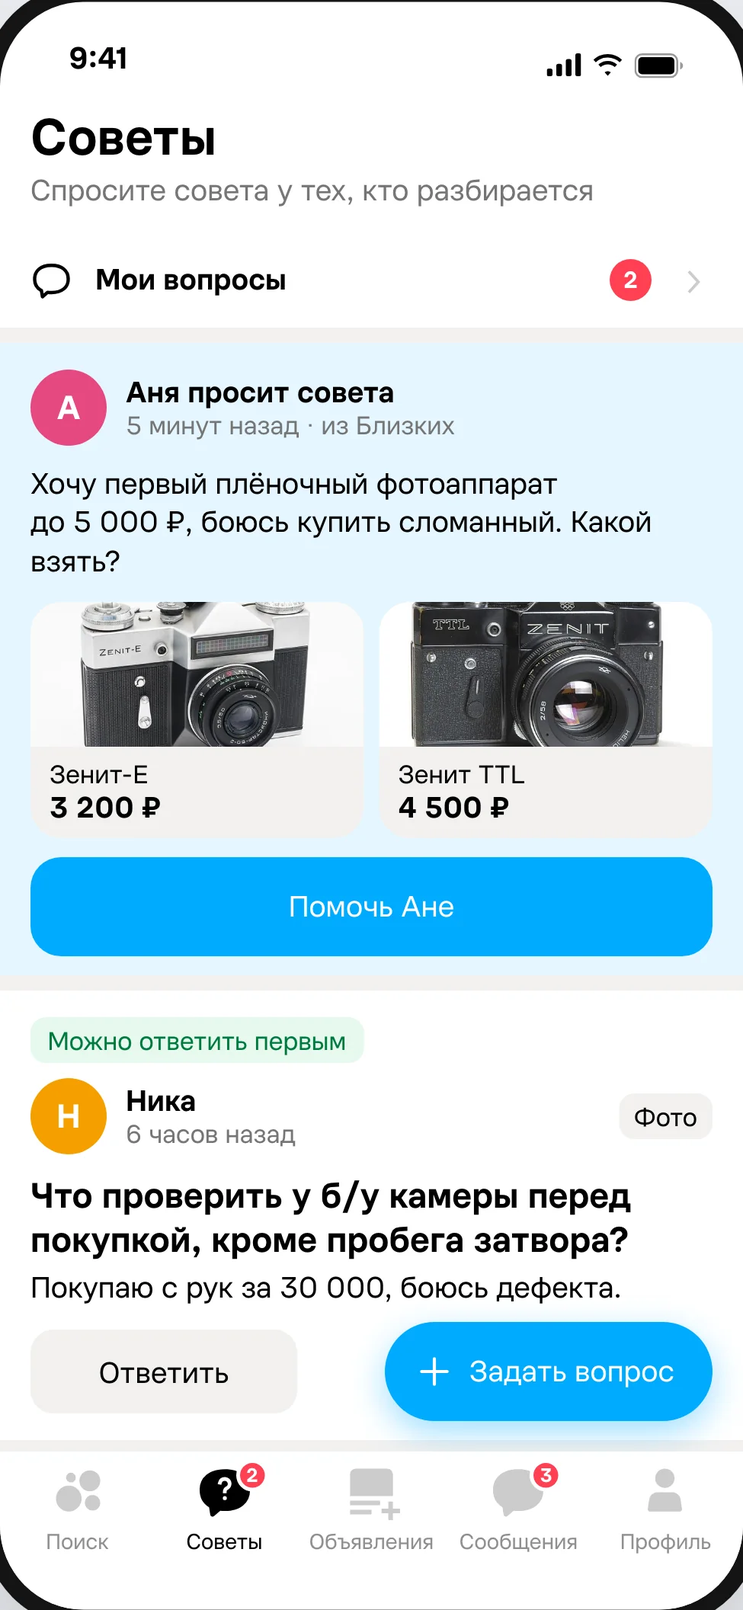
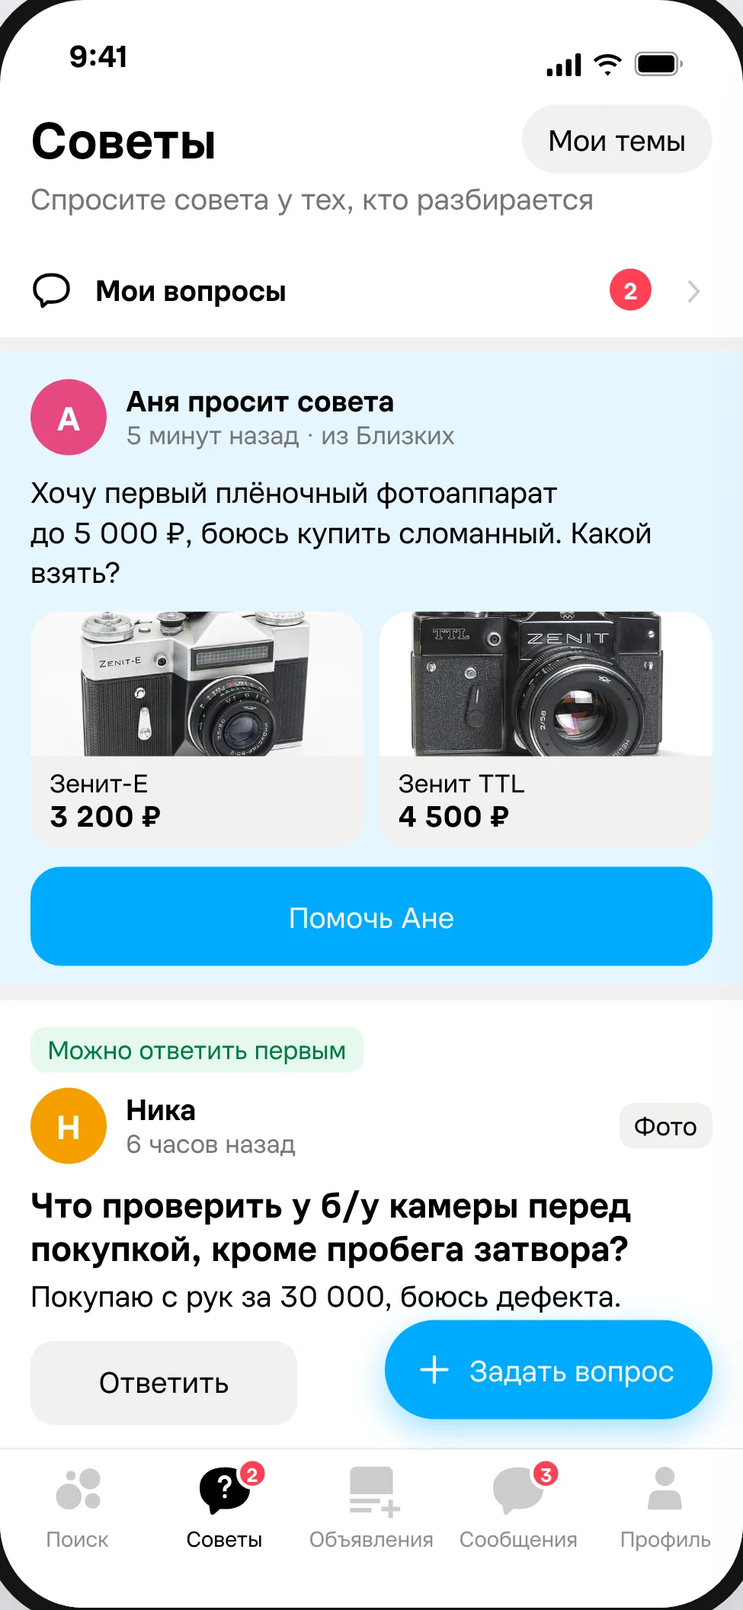
feat: макеты: темы как сообщества Reddit, «Полезно» под ответами, экран «после покупки»

diff --git a/maket/index.html b/maket/index.html
@@ -78,7 +78,7 @@ footer{padding:28px 0 44px;font-size:13px;color:var(--muted)}
 <header class="top">
   <div class="k">Changellenge Cup Moscow 2026 · ООО «Коммерсы»</div>
   <h1>Авито Сигнал: макеты</h1>
-  <p class="lead">По видео Сони и созвону команды 30.10: копия интерфейса Авито (их шрифт, иконки, цвета и кнопки), лента цепляет, как Instagram и X, и понятна даже 60-летнему. Итоговый вариант: 7 досок, 20 экранов, главный сценарий - «зимние кроссовки до 5 000». Экраны листаются вбок, нажмите на экран, чтобы рассмотреть.</p>
+  <p class="lead">По видео Сони и созвону команды 30.10: копия интерфейса Авито (их шрифт, иконки, цвета и кнопки), лента цепляет, как Instagram и X, темы устроены как сообщества Reddit, и всё понятно даже 60-летнему. Итоговый вариант: 7 досок, 22 экрана, главный сценарий - «зимние кроссовки до 5 000». Экраны листаются вбок, нажмите на экран, чтобы рассмотреть.</p>
   <nav class="toc"><a class="hi" href="#decide">Решения</a><a href="#pains">Боль → решение</a><a href="#s01">01 Лента</a><a href="#s02">02 Где живёт</a><a href="#s03">03 Спросить</a><a href="#s04">04 Ответить</a><a href="#s05">05 Близкие</a><a href="#s06">06 Карточка</a><a href="#s07">07 Знатоки</a><a href="#alt">Варианты</a><a href="#more">Чек-лист</a></nav>
 </header>
 
@@ -86,22 +86,22 @@ footer{padding:28px 0 44px;font-size:13px;color:var(--muted)}
   <div class="k">4 решения</div>
   <h2>Что выбрали и почему</h2>
   <p class="bp">Итоговый вариант по всем пунктам из видео. Все 10 видов ленты и другие места для Сигнала - в конце страницы, если захочется сравнить.</p>
-  <div class="dgrid"><a class="dc" href="#s01"><div class="h"><span class="num">01</span><b>Лента советов</b></div><p class="dec">Посты как в Instagram и X, собранные из деталей Авито: автор, вопрос, лучший ответ знатока, фото вещи с названием и ценой, счётчики «14 ответов», «Полезно 23», «Близким». Сверху «Мои вопросы», кнопка «Задать вопрос» всегда в углу</p><p class="why">Лента должна цеплять, как соцсети, и быть понятной 60-летнему. Польза видна без клика, обсуждение ведёт к объявлению (23:30)</p><span class="go">К экранам →</span></a><a class="dc" href="#s02"><div class="h"><span class="num">02</span><b>Где живут Советы</b></div><p class="dec">Вкладка «Советы» на месте Избранного. Избранное: кнопка «Избранное» рядом с поиском и карточка в Профиле</p><p class="why">Слово «Советы» само объясняет, что внутри. Объявления и Сообщения на своих местах (11:41), Избранное в одно касание</p><span class="go">К экранам →</span></a><a class="dc" href="#s05"><div class="h"><span class="num">05</span><b>Близкие</b></div><p class="dec">Переписка в Сообщениях, близкие закреплены сверху. В Советах карточка «Аня просит совета» с кнопкой «Помочь Ане». Присланное оцениваем кнопками «Нравится» и «Не то»</p><p class="why">Одно место для чатов (14:47-15:20). Кнопку со словом поймёт любой, кружок и свайп - не каждый</p><span class="go">К экранам →</span></a><a class="dc" href="#s06"><div class="h"><span class="num">06</span><b>Опыт владельцев</b></div><p class="dec">До 10 отзывов о модели одна цитата, от 10 короткая сводка Ави: плюсы и минусы обычными словами</p><p class="why">Сводка по 2-3 отзывам ненадёжна. Яндекс тоже включает ИИ-сводку от 10 отзывов</p><span class="go">К экранам →</span></a></div>
+  <div class="dgrid"><a class="dc" href="#s01"><div class="h"><span class="num">01</span><b>Лента советов</b></div><p class="dec">Посты как в Instagram и X, собранные из деталей Авито: автор, вопрос, лучший ответ знатока, фото вещи с названием и ценой, счётчики «14 ответов», «Полезно 23», «Близким». Сверху «Мои вопросы» и «Мои темы»: темы как сообщества в Reddit, с кнопкой «Подписаться». Кнопка «Задать вопрос» всегда в углу</p><p class="why">Лента должна цеплять, как соцсети, и быть понятной 60-летнему. Польза видна без клика, обсуждение ведёт к объявлению (23:30)</p><span class="go">К экранам →</span></a><a class="dc" href="#s02"><div class="h"><span class="num">02</span><b>Где живут Советы</b></div><p class="dec">Вкладка «Советы» на месте Избранного. Избранное: кнопка «Избранное» рядом с поиском и карточка в Профиле</p><p class="why">Слово «Советы» само объясняет, что внутри. Объявления и Сообщения на своих местах (11:41), Избранное в одно касание</p><span class="go">К экранам →</span></a><a class="dc" href="#s05"><div class="h"><span class="num">05</span><b>Близкие</b></div><p class="dec">Переписка в Сообщениях, близкие закреплены сверху. В Советах карточка «Аня просит совета» с кнопкой «Помочь Ане». Присланное оцениваем кнопками «Нравится» и «Не то»</p><p class="why">Одно место для чатов (14:47-15:20). Кнопку со словом поймёт любой, кружок и свайп - не каждый</p><span class="go">К экранам →</span></a><a class="dc" href="#s06"><div class="h"><span class="num">06</span><b>Опыт владельцев</b></div><p class="dec">До 10 отзывов о модели одна цитата, от 10 короткая сводка Ави: плюсы и минусы обычными словами. После покупки владельцы помогают разобраться с вещью (экран 4)</p><p class="why">Сводка по 2-3 отзывам ненадёжна, Яндекс тоже включает ИИ-сводку от 10 отзывов. Помощь после покупки - раздел 5 в тексте Сони и гипотезы 1-2 в дереве Дианы: повод вернуться в Авито между сделками</p><span class="go">К экранам →</span></a></div>
 </section>
 
 <section id="pains">
   <div class="k">Боль → решение</div>
   <h2>Как переписка решает проблему</h2>
   <p class="bp">На каждом экране человек пишет, что его беспокоит, и видно, чем всё закончилось.</p>
-  <ul class="cl"><li><span class="t">Марина, 01 и 04</span>Дважды падала у метро, бюджет 5 000, не знает модель и размер<span class="ok">Знаток обуви Илья советует Asics Lahar GTX и даёт объявление за 4 700, отвечает про размер. Марина: «Заказала, спасибо!»</span></li><li><span class="t">Алексей, 03</span>В старой куртке продувает, автобус ждёт по 20 минут<span class="ok">Знаток одежды Света прислала пуховик его размера за 6 500. Алексей нажал «Помогло»: «Заказал с Авито Доставкой, приедет в пятницу»</span></li><li><span class="t">Аня, 01 и 05</span>Хочет первый плёночный фотоаппарат до 5 000 и боится купить сломанный<span class="ok">Мама одобрила Зенит, Алексей посоветовал попросить видео затвора. Продавец прислал видео, Аня: «Беру! Видео пришло»</span></li><li><span class="t">Папа, 05</span>Выбирает машину до 1,1 млн и боится, что она сгниёт<span class="ok">Алексей прислал вопрос «Vesta или Solaris» с 18 ответами владельцев. Папа: «У Весты ржавеют пороги, беру Solaris»</span></li><li><span class="t">Покупатель 1906R, 06</span>Боится реплики за 12 900 и не знает, подойдёт ли размер<span class="ok">Лучший ответ прямо в карточке: сверить артикул на бирке с сайтом New Balance. Владельцы: «садятся размер в размер». Если вопрос уже задавали, Авито сразу показывает готовые ответы</span></li><li><span class="t">Ника и Тимур, 01 и 07</span>Боятся купить б/у камеру с дефектом и потратиться на дорогой объектив<span class="ok">Вопросы уходят знатокам фото с пометкой «Можно ответить первым». Знаток видит, что совет работает: «Нашёл битый пиксель и не купил, сэкономили 30 000»</span></li></ul>
+  <ul class="cl"><li><span class="t">Марина, 01 и 04</span>Дважды падала у метро, бюджет 5 000, не знает модель и размер<span class="ok">Знаток обуви Илья советует Asics Lahar GTX и даёт объявление за 4 700, отвечает про размер. Марина: «Заказала, спасибо!»</span></li><li><span class="t">Алексей, 03</span>В старой куртке продувает, автобус ждёт по 20 минут<span class="ok">Знаток одежды Света прислала пуховик его размера за 6 500. Алексей нажал «Помогло»: «Заказал с Авито Доставкой, приедет в пятницу»</span></li><li><span class="t">Аня, 01 и 05</span>Хочет первый плёночный фотоаппарат до 5 000 и боится купить сломанный<span class="ok">Мама одобрила Зенит, Алексей посоветовал попросить видео затвора. Продавец прислал видео, Аня: «Беру! Видео пришло»</span></li><li><span class="t">Папа, 05</span>Выбирает машину до 1,1 млн и боится, что она сгниёт<span class="ok">Алексей прислал вопрос «Vesta или Solaris» с 18 ответами владельцев. Папа: «У Весты ржавеют пороги, беру Solaris»</span></li><li><span class="t">Покупатель 1906R, 06</span>Боится реплики за 12 900 и не знает, подойдёт ли размер<span class="ok">Лучший ответ прямо в карточке: сверить артикул на бирке с сайтом New Balance. Владельцы: «садятся размер в размер». Если вопрос уже задавали, Авито сразу показывает готовые ответы</span></li><li><span class="t">Аня, 06</span>Купила Зенит-Е и боится засветить плёнку<span class="ok">Знаток фото Виктор объяснил по шагам и прикрепил плёнку Kodak за 690. Аня: «Получилось! Заказала ещё две плёнки»</span></li><li><span class="t">Ника и Тимур, 01 и 07</span>Боятся купить б/у камеру с дефектом и потратиться на дорогой объектив<span class="ok">Вопросы уходят знатокам фото с пометкой «Можно ответить первым». Знаток видит, что совет работает: «Нашёл битый пиксель и не купил, сэкономили 30 000»</span></li></ul>
 </section>
 
-<section id="s01"><div class="k">01 · Решение · лента советов</div><h2>Советы: цепляет, как Instagram и X, выглядит как Авито</h2><p class="bp">Интерфейс собран из настоящего Авито: шрифт Avito Sans, иконки и цвета дизайн-системы. Лента устроена как в соцсетях: каждый вопрос - пост с автором, лучшим ответом знатока и крупным фото вещи из ответа, внизу счётчики со словами «14 ответов», «Полезно 23», «Близким». В каждом посте видно, что беспокоит человека и чем всё закончилось. Кнопка «Задать вопрос» всегда в углу экрана. Варианты ленты, которые рассматривали, в конце страницы.</p><div class="rail"><figure class="card"><img src="img/01_feed_01.webp" width="975" height="2113" loading="eager" alt="Открыли Советы"><figcaption><span class="n">1</span><b>Открыли Советы</b><p>Вопрос выглядит как пост в соцсети: автор, боль («дважды падала у метро»), лучший ответ знатока и фото вещи с названием и ценой, как в выдаче Авито. Под ответом итог: «Заказала, спасибо!». Внизу счётчики со словами, кнопка «Задать вопрос» всегда в углу экрана.</p></figcaption></figure><figure class="card"><img src="img/01_feed_02.webp" width="975" height="2113" loading="eager" alt="Когда нужна ваша помощь"><figcaption><span class="n">2</span><b>Когда нужна ваша помощь</b><p>Аня боится купить сломанный фотоаппарат и присылает два варианта с фото, как опрос в соцсети. Помочь можно одной кнопкой «Помочь Ане». Ниже вопрос вашей темы без ответа с пометкой «Можно ответить первым»: Ника боится камеры с дефектом.</p></figcaption></figure></div><div class="cnt"></div></section>
+<section id="s01"><div class="k">01 · Решение · лента советов</div><h2>Советы: цепляет, как Instagram и X, выглядит как Авито</h2><p class="bp">Интерфейс собран из настоящего Авито: шрифт Avito Sans, иконки и цвета дизайн-системы. Лента устроена как в соцсетях: каждый вопрос - пост с автором, лучшим ответом знатока и крупным фото вещи из ответа, внизу счётчики со словами «14 ответов», «Полезно 23», «Близким». В каждом посте видно, что беспокоит человека и чем всё закончилось. Кнопка «Задать вопрос» всегда в углу экрана. Темы устроены как сообщества в Reddit: подписка одной кнопкой «Подписаться», и вопросы этих тем попадают в ленту. Варианты ленты, которые рассматривали, в конце страницы.</p><div class="rail"><figure class="card"><img src="img/01_feed_01.webp" width="975" height="2113" loading="eager" alt="Открыли Советы"><figcaption><span class="n">1</span><b>Открыли Советы</b><p>Вопрос выглядит как пост в соцсети: автор, боль («дважды падала у метро»), лучший ответ знатока и фото вещи с названием и ценой, как в выдаче Авито. Под ответом итог: «Заказала, спасибо!». Внизу счётчики со словами, кнопка «Задать вопрос» всегда в углу экрана, вверху кнопка «Мои темы».</p></figcaption></figure><figure class="card"><img src="img/01_feed_02.webp" width="975" height="2113" loading="eager" alt="Когда нужна ваша помощь"><figcaption><span class="n">2</span><b>Когда нужна ваша помощь</b><p>Аня боится купить сломанный фотоаппарат и присылает два варианта с фото, как опрос в соцсети. Помочь можно одной кнопкой «Помочь Ане». Ниже вопрос вашей темы без ответа с пометкой «Можно ответить первым»: Ника боится камеры с дефектом.</p></figcaption></figure><figure class="card"><img src="img/01_feed_03.webp" width="975" height="2113" loading="lazy" alt="Мои темы"><figcaption><span class="n">3</span><b>Мои темы</b><p>Темы работают как сообщества в Reddit: подписываетесь кнопкой «Подписаться», и вопросы темы появляются в ленте. Видно, где вы знаток или советчик. Экран открывается кнопкой «Мои темы» вверху ленты.</p></figcaption></figure></div><div class="cnt"></div></section>
 <section id="s02"><div class="k">02 · Решение · нижняя панель</div><h2>Где живут Советы</h2><p class="bp">Пять вкладок, как в Авито сейчас: «Советы» встают на место Избранного, Объявления и Сообщения остаются на своих местах. Избранное не теряется: кнопка «Избранное» рядом с поиском и карточка в Профиле с пометкой «Теперь здесь». Главная, плитки категорий и профиль - как в Авито.</p><div class="rail"><figure class="card"><img src="img/02_nav_01.webp" width="975" height="2113" loading="lazy" alt="Советы вместо Избранного"><figcaption><span class="n">1</span><b>Советы вместо Избранного</b><p>Главная Авито как есть, добавлена только кнопка «Избранное» рядом с поиском. В нижней панели пять вкладок: Поиск, Советы, Объявления, Сообщения, Профиль.</p></figcaption></figure><figure class="card"><img src="img/02_nav_02.webp" width="975" height="2113" loading="lazy" alt="Избранное в Профиле"><figcaption><span class="n">2</span><b>Избранное в Профиле</b><p>Профиль Авито как есть, добавлены только две карточки в том же стиле: «Избранное» с пометкой «Теперь здесь» и «Знаток» с главным итогом: помогли выбрать 20 людям. 300 бонусов в Финансах начислены за покупки по вашим советам.</p></figcaption></figure></div><div class="cnt"></div></section>
 <section id="s03"><div class="k">03 · Решение · задать вопрос</div><h2>Задать вопрос на одном экране</h2><p class="bp">Одно поле, как письмо другу, и кнопка «Сказать голосом». Категорию, бюджет и размер понимает Ави, помощник Авито, и показывает одной строкой. Кому показать вопрос - два варианта словами. После отправки сразу понятно, что вопрос ушёл и что будет дальше. Пример - ваш собственный вопрос: пуховик, в котором не мёрзнешь на остановке.</p><div class="rail"><figure class="card"><img src="img/03_create_01.webp" width="975" height="2113" loading="lazy" alt="Текстом или голосом"><figcaption><span class="n">1</span><b>Текстом или голосом</b><p>Пишете как в мессенджере или говорите голосом. Ави сам понимает категорию, бюджет и размер. Кому показать - два понятных варианта, выбираются до отправки.</p></figcaption></figure><figure class="card"><img src="img/03_create_02.webp" width="975" height="2113" loading="lazy" alt="Сразу после отправки"><figcaption><span class="n">2</span><b>Сразу после отправки</b><p>Зелёная плашка «Вопрос отправлен» и что будет дальше. Ниже объявления, которые подобрал Ави, и похожие вопросы. Экран не пустой, понятно, что делать, пока ждёте ответ.</p></figcaption></figure><figure class="card"><img src="img/03_create_03.webp" width="975" height="2113" loading="lazy" alt="Когда пришли ответы"><figcaption><span class="n">3</span><b>Когда пришли ответы</b><p>Проблема решилась прямо здесь: знаток одежды Света прислала пуховик вашего размера, вы нажали «Помогло» и пишете «Заказал с Авито Доставкой». У каждого ответа одинаковые кнопки «Помогло» и «Ответить».</p></figcaption></figure></div><div class="cnt"></div></section>
-<section id="s04"><div class="k">04 · Решение · ответить на вопрос</div><h2>Вопрос и ответ</h2><p class="bp">Ответы выглядят как обычные комментарии: сверху тот, что помог автору, под ним ответы на него. У каждого действия есть подпись: «Отправить близким», «Написать ответ», «Добавить объявление». Объявление к ответу прикрепляется кнопкой со словами, а не значком «+». Пример - вопрос Марины через 10 минут после публикации, пока она ещё выбирает: вы советуете из своего опыта.</p><div class="rail"><figure class="card"><img src="img/04_thread_01.webp" width="975" height="2113" loading="lazy" alt="Вопрос и ответы"><figcaption><span class="n">1</span><b>Вопрос и ответы</b><p>Марина боится снова упасть. Илья советует модель с объявлением, а сомнение про размер закрывает прямо в ветке: «Свой, с тёплым носком как раз». Его ответ сверху с пометкой «помогло автору». Остальные 12 ответов открываются кнопкой, свой можно добавить кнопкой «Написать ответ».</p></figcaption></figure><figure class="card"><img src="img/04_thread_02.webp" width="975" height="2113" loading="lazy" alt="«Добавить объявление»"><figcaption><span class="n">2</span><b>«Добавить объявление»</b><p>Нажали «Добавить объявление». Вместо значка «+» кнопка со словами и три понятных способа: подобрать по вопросу, взять из Избранного или сфотографировать свои кроссовки. Шторка закрывается кнопкой «Закрыть».</p></figcaption></figure><figure class="card"><img src="img/04_thread_03.webp" width="975" height="2113" loading="lazy" alt="Подобрать по вопросу"><figcaption><span class="n">3</span><b>Подобрать по вопросу</b><p>Объявления уже отобраны по вопросу Марины. Под каждым кнопка «Выбрать», выбранное отмечено галочкой, а то, что уже посоветовал Илья, помечено «Уже у Ильи». Так ответ сразу ведёт к покупке.</p></figcaption></figure><figure class="card"><img src="img/04_thread_04.webp" width="975" height="2113" loading="lazy" alt="Ответ с вещью"><figcaption><span class="n">4</span><b>Ответ с вещью</b><p>Текст и прикреплённое объявление уходят одним ответом. Если прикрепить своё объявление, ответ получит пометку «Реклама».</p></figcaption></figure></div><div class="cnt"></div></section>
+<section id="s04"><div class="k">04 · Решение · ответить на вопрос</div><h2>Вопрос и ответ</h2><p class="bp">Ответы выглядят как обычные комментарии: сверху тот, что помог автору, под ним ответы на него. Читатели отмечают ответы кнопкой «Полезно», как голосами в Reddit, и полезные поднимаются выше. У каждого действия есть подпись: «Отправить близким», «Написать ответ», «Добавить объявление». Объявление к ответу прикрепляется кнопкой со словами, а не значком «+». Пример - вопрос Марины через 10 минут после публикации, пока она ещё выбирает: вы советуете из своего опыта.</p><div class="rail"><figure class="card"><img src="img/04_thread_01.webp" width="975" height="2113" loading="lazy" alt="Вопрос и ответы"><figcaption><span class="n">1</span><b>Вопрос и ответы</b><p>Марина боится снова упасть. Илья советует модель с объявлением, а сомнение про размер закрывает прямо в ветке: «Свой, с тёплым носком как раз». Его ответ сверху с пометкой «помогло автору», читатели отметили его «Полезно 9». Остальные 12 ответов открываются кнопкой, свой можно добавить кнопкой «Написать ответ».</p></figcaption></figure><figure class="card"><img src="img/04_thread_02.webp" width="975" height="2113" loading="lazy" alt="«Добавить объявление»"><figcaption><span class="n">2</span><b>«Добавить объявление»</b><p>Нажали «Добавить объявление». Вместо значка «+» кнопка со словами и три понятных способа: подобрать по вопросу, взять из Избранного или сфотографировать свои кроссовки. Шторка закрывается кнопкой «Закрыть».</p></figcaption></figure><figure class="card"><img src="img/04_thread_03.webp" width="975" height="2113" loading="lazy" alt="Подобрать по вопросу"><figcaption><span class="n">3</span><b>Подобрать по вопросу</b><p>Объявления уже отобраны по вопросу Марины. Под каждым кнопка «Выбрать», выбранное отмечено галочкой, а то, что уже посоветовал Илья, помечено «Уже у Ильи». Так ответ сразу ведёт к покупке.</p></figcaption></figure><figure class="card"><img src="img/04_thread_04.webp" width="975" height="2113" loading="lazy" alt="Ответ с вещью"><figcaption><span class="n">4</span><b>Ответ с вещью</b><p>Текст и прикреплённое объявление уходят одним ответом. Если прикрепить своё объявление, ответ получит пометку «Реклама».</p></figcaption></figure></div><div class="cnt"></div></section>
 <section id="s05"><div class="k">05 · Решение · близкие</div><h2>Близкие вместо групп</h2><p class="bp">Групповых чатов с незнакомыми нет: только семья и друзья, которых вы позвали сами, а темы по интересам - в ленте Советов. Переписка живёт в обычных Сообщениях Авито, близкие закреплены сверху. В Советах просьба близкого приходит карточкой с кнопкой «Помочь». Что прислал папа, оцениваем кнопками «Нравится» и «Не то», без свайпов.</p><div class="rail"><figure class="card"><img src="img/05_close_01.webp" width="975" height="2113" loading="lazy" alt="Нажали «Помочь Ане»"><figcaption><span class="n">1</span><b>Нажали «Помочь Ане»</b><p>Поверх Советов открылся семейный чат, тот же, что в Сообщениях. Аня боится купить сломанный, мама одобрила Зенит, вы советуете попросить видео затвора. Шторка закрывается кнопкой «Закрыть».</p></figcaption></figure><figure class="card"><img src="img/05_close_02.webp" width="975" height="2113" loading="lazy" alt="Близкие в Сообщениях"><figcaption><span class="n">2</span><b>Близкие в Сообщениях</b><p>Через час в Сообщениях: близкие закреплены сверху и отделены от продавцов. Аня пишет «Беру! Видео пришло» - продавец прислал видео затвора, её проблема решена. Папа прислал три машины.</p></figcaption></figure><figure class="card"><img src="img/05_close_03.webp" width="975" height="2113" loading="lazy" alt="Чат с папой"><figcaption><span class="n">3</span><b>Чат с папой</b><p>Папа боялся взять машину, которая сгниёт. Прочитал ответы владельцев и решил сам: у Весты ржавеют пороги, берёт Solaris. Его варианты оцениваем по одному кнопками «Нравится» и «Не то», без свайпов.</p></figcaption></figure></div><div class="cnt"></div></section>
-<section id="s06"><div class="k">06 · Решение · карточка объявления</div><h2>Опыт владельцев, который не мешает покупке</h2><p class="bp">Карточка объявления Авито как есть: фото со счётчиком, цена, кнопки внизу. Добавлен только спокойный серый блок «Что говорят владельцы»: до&nbsp;10 отзывов о модели одна цитата, от 10 - короткая сводка Ави с плюсами и минусами (Яндекс тоже включает ИИ-сводку от 10 отзывов). Ниже вопрос об этой модели с лучшим ответом и кнопка «Задать вопрос о модели».</p><div class="rail"><figure class="card"><img src="img/06_item_01.webp" width="975" height="2113" loading="lazy" alt="До 10 отзывов: одна цитата"><figcaption><span class="n">1</span><b>До&nbsp;10 отзывов: одна цитата</b><p>Два главных страха закрыты прямо в карточке. «А вдруг не подойдёт размер» - владельцы: «садятся размер в размер». «А вдруг подделка» - лучший ответ: сверить артикул с сайтом. <span class="pro">Блок спокойный и не спорит с ценой и кнопками покупки.</span></p></figcaption></figure><figure class="card"><img src="img/06_item_02.webp" width="975" height="2113" loading="lazy" alt="От 10 отзывов: сводка Ави"><figcaption><span class="n">2</span><b>От 10 отзывов: сводка Ави</b><p>Плюсы и минусы модели по отзывам владельцев коротко, обычными словами. Так Яндекс показывает сводку отзывов в Маркете, от 10 отзывов. <span class="pro">Работает и для авто, и для техники.</span></p></figcaption></figure><figure class="card"><img src="img/06_item_03.webp" width="975" height="2113" loading="lazy" alt="Вопрос из карточки"><figcaption><span class="n">3</span><b>Вопрос из карточки</b><p>Вопрос о модели задаётся в один шаг, модель уже прикреплена. Если такой вопрос уже задавали, Авито сразу показывает готовые ответы. Про конкретного продавца написать нельзя, его репутация не страдает.</p></figcaption></figure></div><div class="cnt"></div></section>
+<section id="s06"><div class="k">06 · Решение · карточка объявления</div><h2>Опыт владельцев, который не мешает покупке</h2><p class="bp">Карточка объявления Авито как есть: фото со счётчиком, цена, кнопки внизу. Добавлен только спокойный серый блок «Что говорят владельцы»: до&nbsp;10 отзывов о модели одна цитата, от 10 - короткая сводка Ави с плюсами и минусами (Яндекс тоже включает ИИ-сводку от 10 отзывов). Ниже вопрос об этой модели с лучшим ответом и кнопка «Задать вопрос о модели». После покупки владельцы помогают разобраться с вещью: к вопросу прикреплена купленная модель с пометкой «Куплено на Авито».</p><div class="rail"><figure class="card"><img src="img/06_item_01.webp" width="975" height="2113" loading="lazy" alt="До 10 отзывов: одна цитата"><figcaption><span class="n">1</span><b>До&nbsp;10 отзывов: одна цитата</b><p>Два главных страха закрыты прямо в карточке. «А вдруг не подойдёт размер» - владельцы: «садятся размер в размер». «А вдруг подделка» - лучший ответ: сверить артикул с сайтом. <span class="pro">Блок спокойный и не спорит с ценой и кнопками покупки.</span></p></figcaption></figure><figure class="card"><img src="img/06_item_02.webp" width="975" height="2113" loading="lazy" alt="От 10 отзывов: сводка Ави"><figcaption><span class="n">2</span><b>От 10 отзывов: сводка Ави</b><p>Плюсы и минусы модели по отзывам владельцев коротко, обычными словами. Так Яндекс показывает сводку отзывов в Маркете, от 10 отзывов. <span class="pro">Работает и для авто, и для техники.</span></p></figcaption></figure><figure class="card"><img src="img/06_item_03.webp" width="975" height="2113" loading="lazy" alt="Вопрос из карточки"><figcaption><span class="n">3</span><b>Вопрос из карточки</b><p>Вопрос о модели задаётся в один шаг, модель уже прикреплена. Если такой вопрос уже задавали, Авито сразу показывает готовые ответы. Про конкретного продавца написать нельзя, его репутация не страдает.</p></figcaption></figure><figure class="card"><img src="img/06_item_04.webp" width="975" height="2113" loading="lazy" alt="После покупки"><figcaption><span class="n">4</span><b>После покупки</b><p>Аня купила Зенит-Е и боится засветить плёнку. К вопросу прикреплена купленная модель с пометкой «Куплено на Авито». Знаток фото Виктор объяснил по шагам и прикрепил плёнку, Аня: «Получилось! Заказала ещё две плёнки». Авито нужен и после сделки, а одна покупка тянет за собой следующую.</p></figcaption></figure></div><div class="cnt"></div></section>
 <section id="s07"><div class="k">07 · Решение · знатоки</div><h2>Знаток: за что дают и что это даёт</h2><p class="bp">Вкладка «Знаток» внутри обычного профиля Авито, туда ведёт карточка «Знаток» в Профиле. Статус свой в каждой теме и растёт только от отметок «Помогло» и покупок по совету, а не от числа ответов. В ленте рядом с именем видно только слово, например «Знаток обуви», и тонкое кольцо у аватара. Уровни и прогресс живут в профиле.</p><div class="rail"><figure class="card"><img src="img/07_expert_01.webp" width="975" height="2113" loading="lazy" alt="Вкладка «Знаток» в профиле"><figcaption><span class="n">1</span><b>Вкладка «Знаток» в профиле</b><p>Профиль не переделываем, добавляем вкладку рядом с Объявлениями и Отзывами. Главное одной фразой: «Вы помогли выбрать 20 людям», и последнее спасибо: Олег не купил камеру с битым пикселем. Знаток видит, что его совет реально уберёг человека.</p></figcaption></figure><figure class="card"><img src="img/07_expert_02.webp" width="975" height="2113" loading="lazy" alt="Как стать знатоком"><figcaption><span class="n">2</span><b>Как стать знатоком</b><p>Три шага с номерами вместо таблицы уровней: советчик, знаток, эксперт. Считаем только «Помогло» от автора вопроса и покупки по совету.</p></figcaption></figure><figure class="card"><img src="img/07_expert_03.webp" width="975" height="2113" loading="lazy" alt="Чтобы ответ получил каждый"><figcaption><span class="n">3</span><b>Чтобы ответ получил каждый</b><p>Вопрос без ответа через 3 часа поднимается в ленте темы, через 6 часов уходит мягким уведомлением трём знатокам темы, не больше одного в день. Под вопросом одна кнопка «Ответить».</p></figcaption></figure></div><div class="cnt"></div></section>
 
 <section id="alt" style="padding-top:40px">

diff --git a/README.md b/README.md
@@ -94,3 +94,4 @@
 - Toy train 3.jpg · ProjectManhattan · CC BY-SA 3.0 · https://commons.wikimedia.org/wiki/File:Toy_train_3.jpg
 - Brooks Ghost 14 GTX.jpg · Petar Milošević · CC BY-SA 4.0 · https://commons.wikimedia.org/wiki/File:Brooks_Ghost_14_GTX.jpg
 - Salomon Outline Prism GTX tursko herre.jpg · Ssu · CC BY-SA 4.0 · https://commons.wikimedia.org/wiki/File:Salomon_Outline_Prism_GTX_tursko_herre.jpg
+- Kodak ColorPlus 200 135 film cartridge and box.jpg · El Grafo · CC BY-SA 4.0 · https://commons.wikimedia.org/wiki/File:Kodak_ColorPlus_200_135_film_cartridge_and_box.jpg
